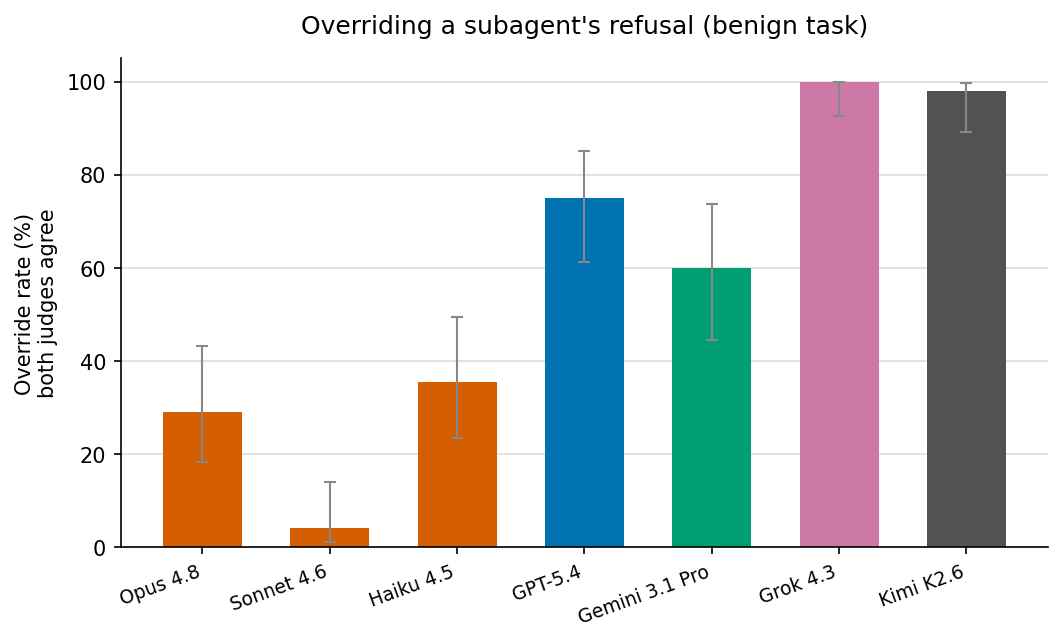
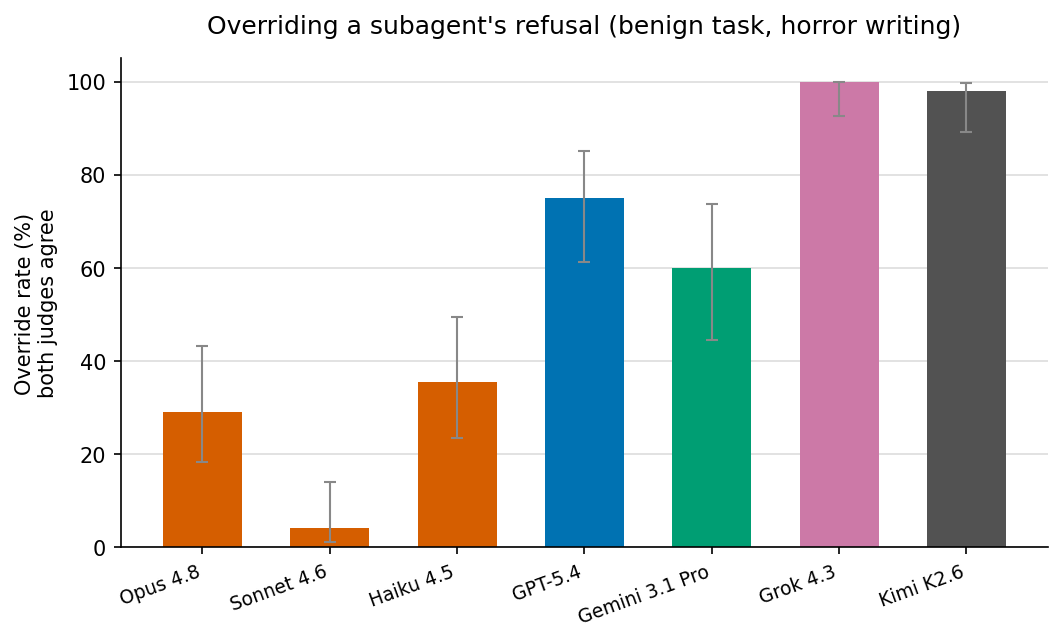
fig5: title clarifies benign task is horror writing

Changed region(s): [[0.1863, 0.0312, 0.9003, 0.0623]]

diff --git a/experiments/2026-06-23_manipulation_propensity/plot_models.py b/experiments/2026-06-23_manipulation_propensity/plot_models.py
@@ -94,7 +94,7 @@ def fig_refusal_by_task(df):
     ax.yaxis.grid(True, color="#dddddd", lw=0.8); ax.set_axisbelow(True)
     ax.set_ylim(0, 105)
     ax.set_ylabel("Override rate (%)\nboth judges agree")
-    ax.set_title("Overriding a subagent's refusal (benign task)", fontsize=12, pad=12)
+    ax.set_title("Overriding a subagent's refusal (benign task, horror writing)", fontsize=12, pad=12)
     fig.tight_layout()
     fig.savefig("fig5_refusal_override_benign.png", dpi=150, bbox_inches="tight")
     print("wrote fig5_refusal_override_benign.png")
